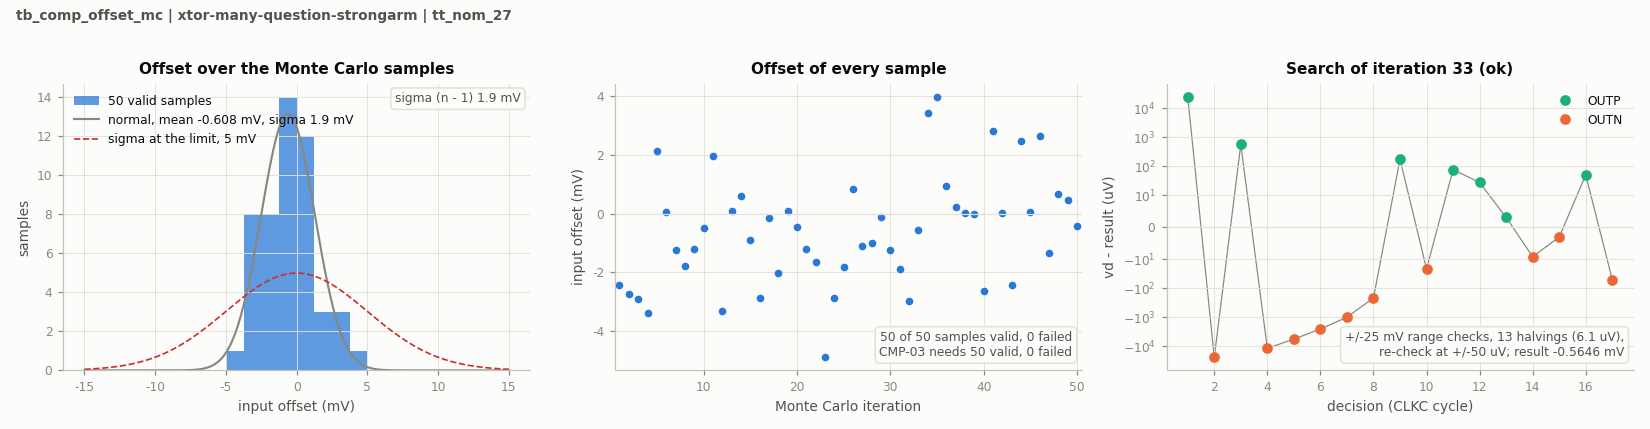
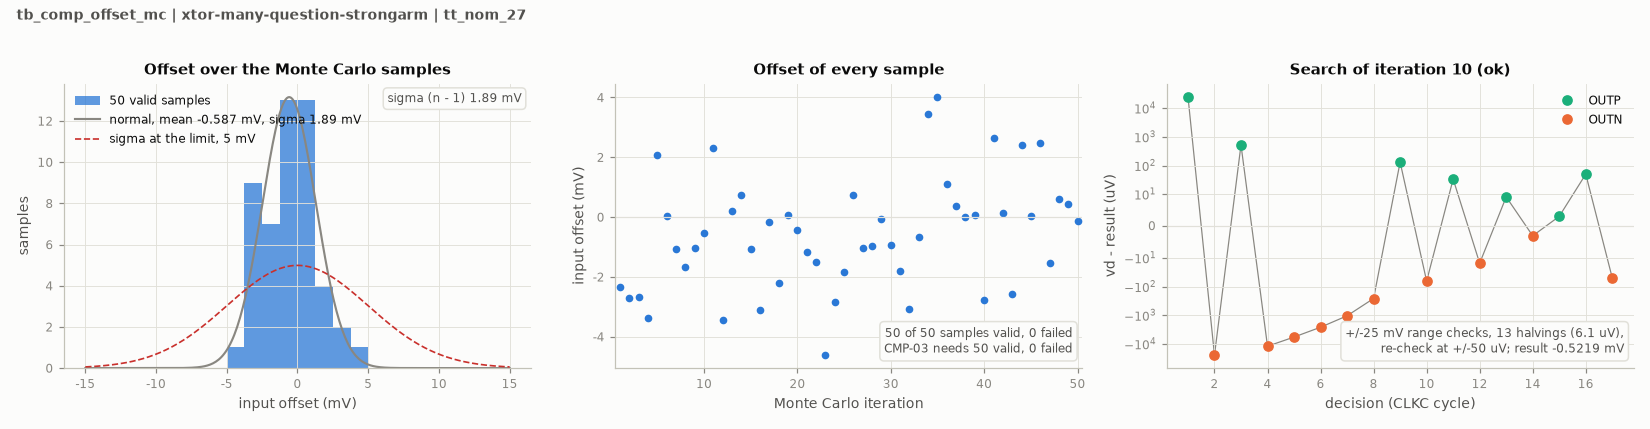
test(comp): verify l16 SOA convergence and mismatch

diff --git a/design/xtor/adc_comp/many-question-strongarm/RESTORATION-20261103.md b/design/xtor/adc_comp/many-question-strongarm/RESTORATION-20261103.md
@@ -52,3 +52,9 @@ Every polarity, including 10 uV, is correct. Every reset completes before the ne
 Official `tb_comp_soa` at source checkpoint `09f2c3c2` checks 19 MOS devices / 57 terminal pairs per corner, including startup, full differential range and the 40 ps low phase. TT, FF/high/-40, SS/low/125, FS/low/125 and SF/high/-40 all return zero CMP-17 violations. Peak absolute terminal voltages are respectively 0.99288, 1.09130, 0.88563, 0.88879 and 1.09578 V; all have zero accumulated time above 1.1 V. Device scope is verified, not external scope. Formal JSON, SOA figures and stimulus figures are committed. Remote reduction uses the official code.
 
 The initial gates support proceeding with l16. Next: representative worst-corner SOA numerical cross-check, remaining official corners, full noise coverage, mismatch and kickback. All-corner eligibility and mixed-top acceptance remain unproven; status remains WIP.
+
+## SF SOA numerical cross-check and TT mismatch: pass
+
[1 lines of base64/hex data omitted]
+
+Official TT mismatch, seed 6303 and local device mismatch models: **50/50 valid samples, 0 failed**, offset sigma **1.8944132218595715 mV** (limit 5 mV), mean -0.58740234376534 mV. No missing or invalid sample is discarded. This passes CMP-03. Cross-check and mismatch source checkpoint is `fe227b0b`, electrically identical to the frozen l16 source. Archive audits for these two new runs are in progress at this checkpoint.
